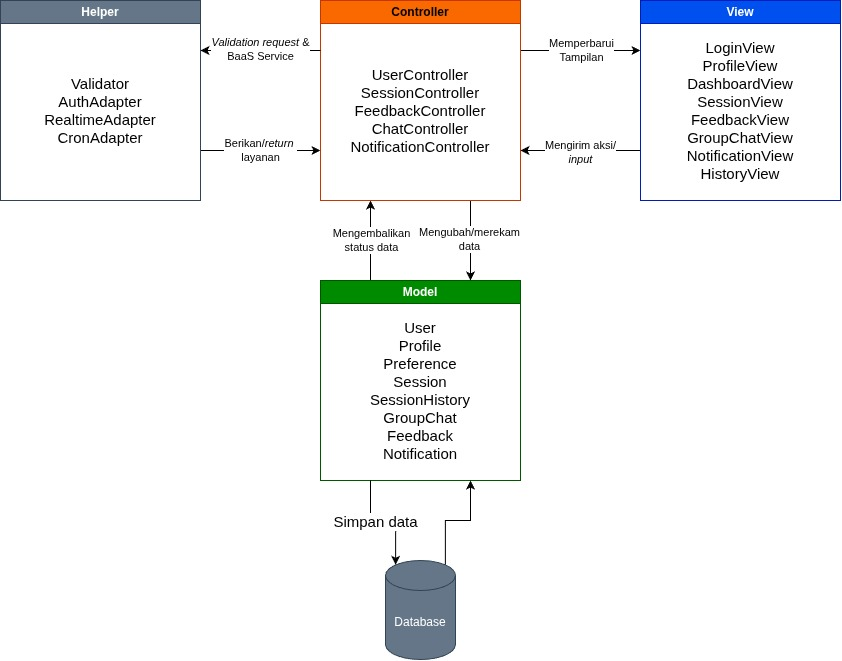
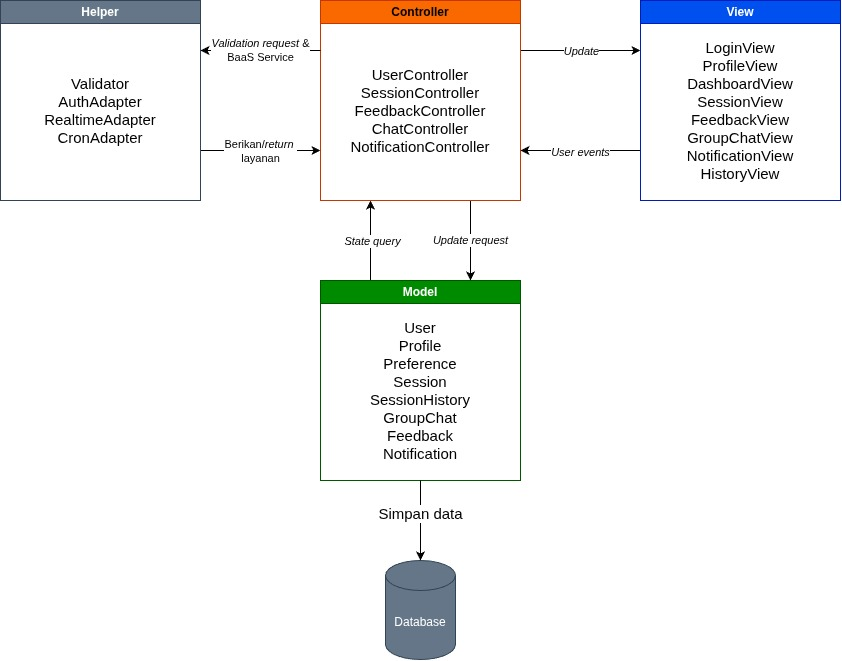
docs: add M6

diff --git a/docs/M6/K01_G09_APL.md b/docs/M6/K01_G09_APL.md
@@ -130,40 +130,47 @@ Tabel 2.1. Identifikasi Komponen/Modul/Subsistem
 | *CronAdapter* | *— (Komponen tambahan M6; bukan kelas SKPL tersendiri)* | *Integrasi Eksternal* | *Menerima pemicu terjadwal dari Supabase Cron dan meneruskannya ke NotificationController untuk pengingat sesi serta ChatController untuk pengelolaan masa aktif chat sesuai aturan retensi yang ditetapkan.* |
 | *Database* | *— (Komponen penyimpanan M6; bukan kelas SKPL)* | *Penyimpanan Data* | *Menyediakan penyimpanan persisten bagi data Model menggunakan PostgreSQL yang dikelola melalui Supabase.* |
 
-
-<sub><b><i>Catatan</i></b>: <i>Nama komponen pada Tabel 2.1 harus dipakai sama persis pada gambar di BAB 1 dan setiap view di BAB 3. Jika saat membuat view ternyata dibutuhkan komponen baru, tambahkan komponen tersebut ke Tabel 2.1 terlebih dahulu.</i></sub>
-
 ---
 
 # BAB 3: Model Arsitektur Perangkat Lunak
 
-*Architectural View* adalah bagaimana cara kita melihat/mendeskripsikan arsitektur sebuah sistem dari sudut pandang tertentu. Dalam perancangan arsitektur aplikasi, dibutuhkan *Architectural View* yang dapat mempermudah pemahaman dari proses aplikasi yang akan dikembangkan. Tujuan dari *Architectural View* adalah menjadi bahan komunikasi, pemisahan masalah, mempermudah analisis, dan pemandu saat eksekusi pengembangan sistem tersebut.
+Untuk menggambarkan arsitektur perangkat lunak PeerUP dari sudut pandang yang berbeda, dipilih dua architectural view, yaitu **Development View** dan **Physical View**. Development View digunakan untuk menjelaskan organisasi statis modul dan dependensi antarkomponen, sedangkan Physical View digunakan untuk menggambarkan penempatan perangkat lunak pada lingkungan eksekusi dan jalur komunikasi antar-node.
 
-Buatlah model arsitektur dari aplikasi yang akan dirancang dalam bentuk *view*. Model arsitektur ini berfungsi untuk memperlihatkan bagaimana setiap komponen, modul, dan subsistem saling berinteraksi serta berkolaborasi dalam menjalankan fungsi utama sistem secara keseluruhan. Anda dapat membuat satu atau lebih *view* tergantung kebutuhan dalam bentuk gambar. Pilihlah notasi yang sesuai. Contoh *view* yang dapat digunakan antara lain ***Logical View***, ***Process View***, ***Development View***, serta ***Physical View***.
+## 3.1 Development View (Package Diagram)
 
-Ketentuan pengisian BAB 3:
-1. Setiap view menggambarkan **keseluruhan sistem**, bukan satu use case atau satu fitur saja.
-2. Buat **minimal satu view**. Setiap view dituliskan dalam subbab tersendiri (3.1, 3.2, dan seterusnya). Tidak perlu membuat keempat view, pilih yang paling membantu menjelaskan P/L Anda, lalu jelaskan alasan pemilihannya.
-3. Setiap view harus **konsisten dengan BAB 2**. Seluruh komponen pada Tabel 2.1 harus muncul dengan nama yang sama, dan tidak boleh ada komponen pada view yang tidak terdaftar di Tabel 2.1.
-4. Setiap view harus **mencerminkan style/pattern pada BAB 1**. Misalnya, jika memilih MVC, pembagian *Model*, *View*, dan *Controller* harus terlihat jelas pada diagram.
-5. Jika membuat lebih dari satu view, setiap view harus menggambarkan sistem yang sama dari sudut pandang berbeda. View tambahan melengkapi view pertama, bukan mengulanginya.
-6. Beri label pada setiap garis atau panah yang menghubungkan komponen agar hubungan antarkomponen dapat dipahami tanpa penjelasan tambahan.
-7. Jika membuat *Physical View*, gambarkan lingkungan operasi pada Tabel 1.1.
+Development View dipilih untuk memperlihatkan bagaimana 26 komponen arsitektur pada Tabel 2.1 dikelompokkan ke dalam paket-paket fungsional dari sudut pandang pengembangan perangkat lunak. Package Diagram digunakan untuk menggambarkan pengelompokan komponen menjadi paket Presentation / View, Application / Controller, Domain / Model, Shared Support, External Integration / Adapters, dan Persistence.
 
-## 3.1 XXX View
-
-Tuliskan secara singkat mengenai model arsitektur perangkat lunak yang Anda pilih dan sertakan alasan mengapa model arsitektur tersebut cocok untuk aplikasi Anda.
 
 <p align="center">
-<img alt="Contoh Logical View pada P/L E-Commerce" src="./assets/diagram/contoh-logical-view.webp" width="100%">
+<img alt="Devolopment View P/L PeerUp" src="./assets/diagram/M6_Diagram-Devolopment-View.png" width="80%">
 </p>
 <p align="center">
-<i>Gambar 2. Contoh Logical View pada P/L E-Commerce</i>
+<i>Gambar 2. Development View (Package Diagram) pada Perangkat Lunak PeerUP</i>
 </p>
 
-Gambar 2 adalah contoh *Logical View* dalam bentuk *block diagram*. Seluruh komponen pada Tabel 2.1 digambarkan dan dikelompokkan sesuai pola MVC (*View*, *Controller*, *Model*), ditambah komponen pendukung dan basis data. Sistem di luar P/L, seperti *Payment Gateway (dummy)*, digambarkan dengan garis putus-putus dan tidak perlu dimasukkan ke Tabel 2.1. Setiap garis diberi label: "Memanggil" untuk *View* yang memanggil *Controller*, "akses" untuk *Controller* yang mengakses *Model*, serta agregasi dan komposisi untuk hubungan antar-*Model*.
+Gambar 2 memperlihatkan pengorganisasian modul dan ketergantungan antarpaket. Garis putus-putus menunjukkan dependency, yaitu ketergantungan suatu paket terhadap layanan atau elemen yang disediakan paket lain. Paket Presentation / View bergantung pada Application / Controller untuk memproses aksi pengguna. Paket Application / Controller menggunakan Domain / Model untuk operasi domain serta Shared Support untuk validasi yang digunakan bersama. Application / Controller juga bergantung pada modul External Integration / Adapters dan Persistence sesuai kebutuhan layanan eksternal dan penyimpanan data.
 
-<sub><b><i>Catatan</i></b>: <i>Ganti XXX dengan nama view yang dibuat, misalnya Logical View. Gambar 2 hanya contoh untuk P/L e-commerce, ganti dengan view milik kelompok Anda yang memuat seluruh komponen pada Tabel 2.1. Jenis view dan notasinya boleh berbeda dari contoh. Jika membuat view tambahan, lanjutkan pola 3.x ini (3.2, 3.3, dan seterusnya).</i></sub>
+Layanan Supabase ditampilkan sebagai sistem eksternal untuk memperjelas batas antara modul kode PeerUP dan layanan yang digunakannya. Nama komponen pada diagram diselaraskan dengan Tabel 2.1, sedangkan nama kelas SKPL dicantumkan sebagai pemetaan komponen.
+
+## 3.2 Physical View (Deployment Diagram)
+
+Physical View dipilih untuk menggambarkan penempatan perangkat lunak PeerUP pada perangkat pengguna, lingkungan hosting aplikasi, dan layanan cloud yang digunakan. Deployment Diagram memperlihatkan node, lingkungan eksekusi, artefak perangkat lunak, serta jalur komunikasi antarnode sesuai lingkungan operasi yang ditetapkan pada SKPL.
+
+**[Masukkan gamb<p align="center">
+<img alt="Physical View P/L PeerUp" src="./assets/diagram/M6_Diagram-Physical-View.png" width="80%">
+</p>
+<p align="center">
+<i>Gambar 3. Physical View (Deployment Diagram) pada Perangkat Lunak PeerUP</i>
+
+Gambar 3 menggambarkan tiga kelompok lingkungan operasi utama:
+
+1. **Perangkat pengguna («device»):** menjalankan web browser sebagai lingkungan eksekusi untuk memuat antarmuka PeerUP dan menangani interaksi pengguna.
+2. **Vercel Cloud Hosting:** menyediakan lingkungan deployment Next.js untuk menjalankan kode aplikasi sisi server, termasuk Server Actions dan Route Handlers yang diperlukan.
+3. **Supabase Cloud Services:** menyediakan layanan autentikasi, komunikasi real-time, penjadwalan pekerjaan, serta PostgreSQL sebagai penyimpanan data persisten.
+
+Komunikasi antara browser dan aplikasi Next.js dilakukan melalui HTTPS. Koneksi browser ke Supabase Realtime melalui WSS digunakan apabila client berlangganan pembaruan pesan secara langsung. Pekerjaan terjadwal dari Supabase Cron dapat memicu endpoint internal Next.js melalui HTTP/HTTPS sesuai mekanisme autentikasi yang ditetapkan. Akses data dilakukan melalui mekanisme Supabase yang digunakan dalam implementasi.
+
+Dengan demikian, Development View menjelaskan organisasi dan dependensi modul, sedangkan Physical View menjelaskan penempatan serta komunikasi antarlingkungan eksekusi. Kedua view menggambarkan sistem PeerUP yang sama dari sudut pandang berbeda.
 
 ---
 

diff --git a/docs/M7/K01_G09_DPPL.md b/docs/M7/K01_G09_DPPL.md
@@ -7,24 +7,27 @@ DESKRIPSI PERANCANGAN PERANGKAT LUNAK (DPPL)
 </h1>
 <br>
 
-## *Nama Perangkat Lunak*
+## PeerUP
+
 ### *[Logo Perangkat Lunak]*
 
-### Untuk: *[Nama Asisten]*
+### Untuk: Mikhael Andrian Yonatan
 
 Dipersiapkan oleh:
 | Informasi | Keterangan |
 | --- | --- |
-| Kelas | *\[Kelas\]* |
-| Kelompok | *\[Nomor Kelompok\]*  |
+| Kelas | *K01* |
+| Kelompok | *G09* |
+| Nama Kelompok | *PindahCSUI*|
 
 | NIM | Nama |
 |---|---|
-| *[NIM 1]* | *[Nama Anggota 1]* |
-| *[NIM 2]* | *[Nama Anggota 2]* |
-| *[NIM 3]* | *[Nama Anggota 3]* |
-| *[NIM 4]* | *[Nama Anggota 4]* |
-| *[NIM 5]* | *[Nama Anggota 5]* |
+| *13525049* | *Hugo Daniel Johansen Napitupulu* |
+| *13525001* | *Matthew Allen Reynaldo* |
+| *13525010* | *Fabian Amzar Susanto* |
+| *13525025* | *David Christian* |
+| *13525028* | *Markus Christiano Simanjuntak* |
+
 ---
 
 ## Daftar Perubahan
@@ -52,41 +55,60 @@ Dipersiapkan oleh:
 # BAB 1: Pendahuluan
 
 ## 1.1 Tujuan Penulisan Dokumen
-Tuliskan dengan ringkas tujuan dokumen DPPL ini dibuat dan siapa saja yang akan menggunakan dokumen ini.
+Dokumen Spesifikasi Kebutuhan Perangkat Lunak (SKPL) ini ditulis untuk mendefinisikan secara lengkap, rinci, dan terstruktur seluruh kebutuhan fungsional, kebutuhan non-fungsional, batasan sistem, pemodelan *use case*, serta pemodelan kelas dari perangkat lunak **PeerUP**. Dokumen ini ditujukan bagi:
+1. **Tim Pengembang (Developer):** Sebagai acuan teknis utama dalam mengimplementasikan kode program, merancang basis data, dan mengintegrasikan antarmuka perangkat lunak.
+2. **Penguji Perangkat Lunak (Tester / QA):** Sebagai dasar pengujian untuk memvalidasi apakah seluruh fitur dan skenario telah berjalan sesuai spesifikasi.
+3. **Dosen dan/atau Asisten Pengampu IF2150:** Sebagai dokumen evaluasi akademik terhadap perancangan rekayasa perangkat lunak yang dilakukan oleh Kelompok ini.
 
 ## 1.2 Lingkup Masalah
-Tuliskan dengan ringkas nama aplikasi dan deskripsi singkatnya. Bagian ini maksimal berisi satu paragraf, dapat diambil dari SKPL.
+**PeerUP** adalah platform web pembelajaran kolaboratif (*peer-to-peer tutoring*) yang dirancang untuk mengatasi ketimpangan akses bimbingan belajar berbiaya mahal serta isolasi sosial di kalangan pelajar dan mahasiswa. Di tengah maraknya platform *EdTech* berlangganan yang bersifat satu arah dan pencarian teman belajar manual yang tidak terstruktur, PeerUP hadir sebagai fasilitator otomatis yang mempertemukan *Mentee* (pelajar yang membutuhkan bimbingan) dengan *Mentor* (tutor sebaya) berdasarkan kecocokan materi, ketersediaan jadwal, dan format belajar (daring/luring), dilengkapi dengan fitur ruang obrolan grup sementara (*temporary group chat*), pengingat jadwal otomatis, serta sistem *feedback*.
 
 ## 1.3 Definisi, Istilah, dan Singkatan
-Semua definisi dan singkatan yang digunakan dalam dokumen ini beserta penjelasannya.
+Semua definisi dan singkatan yang digunakan dalam dokumen ini beserta penjelasannya disajikan pada Tabel 1.3.
 
 Tabel 1.3. Definisi Istilah dan Singkatan
 
 | Singkatan, Akronim, atau Istilah | Penjelasan |
 | :--- | :--- |
 | *P/L* | *Singkatan dari Perangkat Lunak, yaitu aplikasi yang memberikan perintah kepada komputer untuk menjalankan tugas tertentu.* |
-| *DPPL* | *Singkatan dari Spesifikasi Kebutuhan Perangkat Lunak, yaitu dokumen yang merangkum kriteria-kriteria yang diperlukan untuk membangun aplikasi menjalankan tugasnya.* |
+| *SKPL* | *Singkatan dari Spesifikasi Kebutuhan Perangkat Lunak, yaitu dokumen yang merangkum kriteria-kriteria yang diperlukan untuk membangun aplikasi menjalankan tugasnya.* |
+| *KF* | *Singkatan dari Kebutuhan Fungsional.* |
+| *KNF* | *Singkatan dari Kebutuhan Non-Fungsional.* |
 | *UC* | *Singkatan dari Use Case.* |
-| *...* | *...* |
+| *EARS* | *Easy Approach to Requirements Syntax, yaitu pola penulisan kebutuhan agar konsisten dan mudah diuji.* |
+| *Mentor / Tutor* | *Pengguna sebaya yang memiliki penguasaan materi lebih baik dan membuka sesi belajar untuk membimbing pengguna lain.* |
+| *Mentee* | *Pengguna (siswa/mahasiswa) yang mencari bantuan pemahaman materi dan bergabung ke dalam sesi belajar.* |
+| *Matchmaking* | *Proses pencocokan otomatis antara preferensi materi serta jadwal kosong Mentee dengan sesi belajar yang tersedia.* | 
+| *BaaS* | *Backend-as-a-Service, layanan cloud yang menyediakan infrastruktur backend siap pakai seperti basis data, autentikasi, dan komunikasi real-time.* |
 
 ## 1.4 Aturan Penomoran
-Tuliskan aturan penomoran (ID) yang digunakan dalam dokumen ini. Gunakan pola ID yang **sama** dengan yang sudah dipakai pada dokumen-dokumen sebelumnya, jangan membuat pola baru di dokumen ini.
-
 Tabel 1.4. Aturan Penomoran
 
 | Hal/Bagian | Penomoran | Keterangan |
 | :--- | :--- | :--- |
-| *Uce Case* | *UCXX* | |
-| *Kelas* | *CXX* | |
-| *...* | *...* |
+| *User Story* | *US-XX* | *XX menyatakan dua digit nomor urut kebutuhan pengguna awal (contoh: US-01).* |
+| *Aktivitas* | *AXX* | *XX menyatakan dua digit nomor urut aktivitas proses bisnis (contoh: A01).* |
+| *Kebutuhan* | *RXX* | *XX menyatakan dua digit nomor urut pemetaan kebutuhan (contoh: R01).* |
+| *Kebutuhan Fungsional* | *KFXX* | *XX menyatakan dua digit nomor urut kebutuhan fungsional (contoh: KF01).* |
+| *Kebutuhan Non-Fungsional* | *KNFXX* | *XX menyatakan dua digit nomor urut kebutuhan non-fungsional (contoh: KNF01).* |
+| *Aktor* | *AXX* | *XX menyatakan dua digit nomor urut aktor pada pemodelan use case (contoh: A01).* |
+| *Use Case* | *UCXX* | *XX menyatakan dua digit nomor urut use case (contoh: UC01).* |
+| *Kelas* | *CXX* | *XX menyatakan dua digit nomor urut kelas pada diagram kelas (contoh: C01).* |
 
 ## 1.5 Referensi
-Cantumkan dokumentasi P/L yang dirujuk oleh dokumen ini, **minimal dokumen SKPL dan APL**. Tambahkan buku, panduan, atau dokumentasi lain apabila digunakan.
+1. Dokumentasi Perangkat Lunak *Topic Brainstorming* (Tugas 1), *Requirement Gathering* (Tugas 2), *Use Case & Scenario Use Case* (Tugas 3), dan *Class Diagram* (Tugas 4) Kelompok G09 IF2150 Rekayasa Perangkat Lunak.
+2. Mavin, A., Wilkinson, P., Harwood, A., & Novak, M. (2009). *Easy Approach to Requirements Syntax (EARS)*. 17th IEEE International Requirements Engineering Conference.
+3. Undang-Undang Republik Indonesia Nomor 27 Tahun 2022 tentang Perlindungan Data Pribadi (UU PDP).
+4. Undang-Undang Republik Indonesia Nomor 1 Tahun 2024 tentang Perubahan Kedua atas UU ITE.
 
 ## 1.6 Deskripsi Umum Dokumen (Ikhtisar)
-Tuliskan sistematika pembahasan dokumen ini secara ringkas dan runut, dengan maksimal 1 paragraf.
-
-<br>
+Dokumen SKPL ini dibagi menjadi enam bab utama:
+- **BAB 1: Pendahuluan**, menjelaskan tujuan penulisan dokumen, lingkup masalah, definisi dan singkatan, aturan penomoran, referensi, serta ikhtisar dokumen.
+- **BAB 2: Deskripsi Perangkat Lunak**, menguraikan deskripsi umum sistem beserta *Activity Diagram* proses bisnis, deskripsi umum perangkat lunak dan komponen eksternal, karakteristik pengguna, batasan perangkat lunak, serta lingkungan operasi perangkat lunak.
+- **BAB 3: Deskripsi Kebutuhan Perangkat Lunak**, merinci seluruh Kebutuhan Fungsional (KF) dan Kebutuhan Non-Fungsional (KNF).
+- **BAB 4: Pemodelan Use Case**, memuat identifikasi aktor, identifikasi *use case*, *Use Case Diagram*, serta skenario normal dan alternatif untuk masing-masing *use case*.
+- **BAB 5: Pemodelan Kelas**, menyajikan identifikasi kelas (arsitektur *Boundary, Controller, Entity*), diagram kelas per *use case*, serta diagram kelas keseluruhan beserta atribut dan operasinya.
+- **BAB 6: Traceability**, memetakan keterlacakan antara ID Kelas, ID Use Case, dan ID Kebutuhan Fungsional.
 
 ---
 
